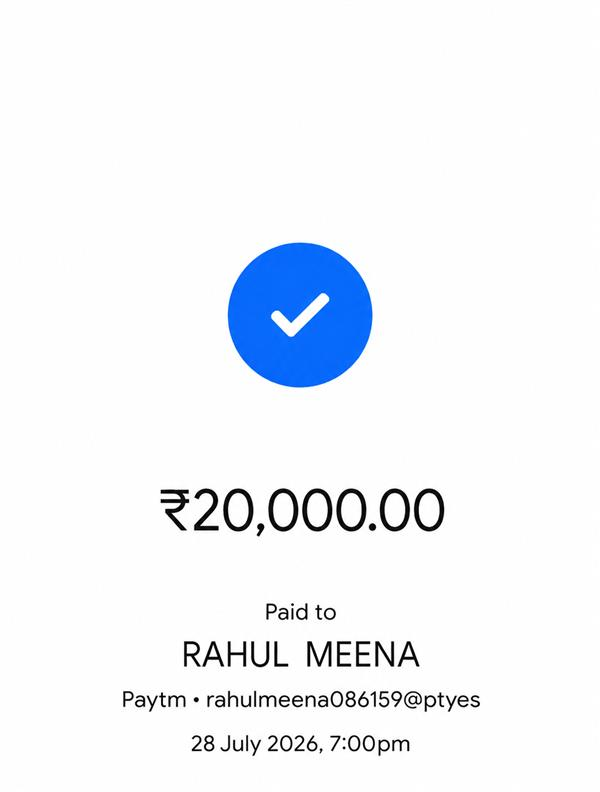
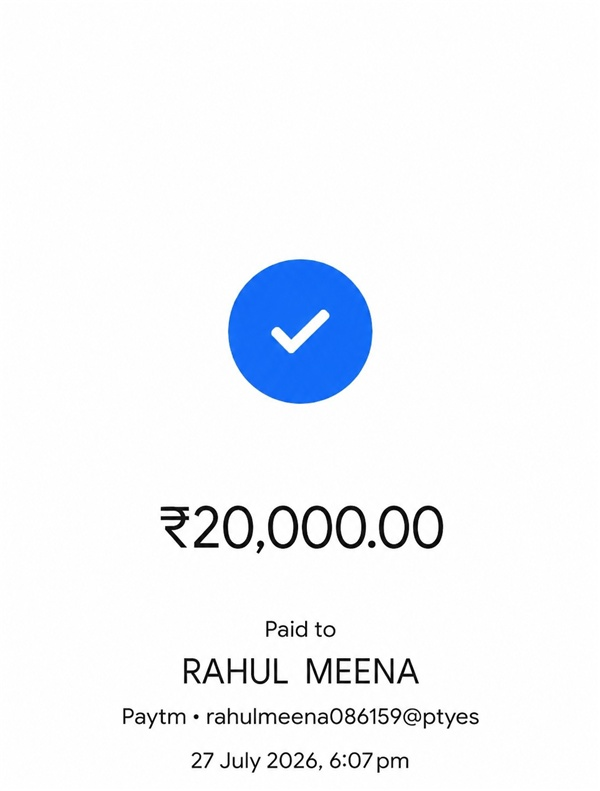
feat: add SEO metadata, Open Graph images, and Roboto font configuration to root layout

Changed region(s): [[0.18, 0.7585, 0.81, 0.9709], [0.27, 0.6068, 0.75, 0.6979], [0.36, 0.3034, 0.63, 0.5158]]

diff --git a/src/app/layout.tsx b/src/app/layout.tsx
@@ -8,8 +8,16 @@ const roboto = Roboto({
   variable: "--font-roboto",
 });
 
+const siteUrl = process.env.NEXT_PUBLIC_SITE_URL
+  ? process.env.NEXT_PUBLIC_SITE_URL.startsWith("http")
+    ? process.env.NEXT_PUBLIC_SITE_URL
+    : `https://${process.env.NEXT_PUBLIC_SITE_URL}`
+  : process.env.VERCEL_URL
+  ? `https://${process.env.VERCEL_URL}`
+  : "http://localhost:3000";
+
 export const metadata: Metadata = {
-  metadataBase: new URL(process.env.NEXT_PUBLIC_SITE_URL || "http://localhost:3000"),
+  metadataBase: new URL(siteUrl),
   title: "Google Pay - Payment Sent",
   description: "Payment of ₹20,000.00 sent successfully to RAHUL MEENA via Google Pay.",
   openGraph: {
@@ -20,10 +28,10 @@ export const metadata: Metadata = {
     siteName: "Google Pay",
     images: [
       {
-        url: "/og-image.jpg",
+        url: "/og-image.png",
         width: 600,
-        height: 792,
-        type: "image/jpeg",
+        height: 791,
+        type: "image/png",
         alt: "Google Pay Payment Sent - ₹20,000.00 to RAHUL MEENA",
       },
     ],
@@ -32,7 +40,7 @@ export const metadata: Metadata = {
     card: "summary_large_image",
     title: "Google Pay - Payment Sent",
     description: "Payment of ₹20,000.00 sent successfully to RAHUL MEENA via Google Pay.",
-    images: ["/og-image.jpg"],
+    images: ["/og-image.png"],
   },
 };
 
